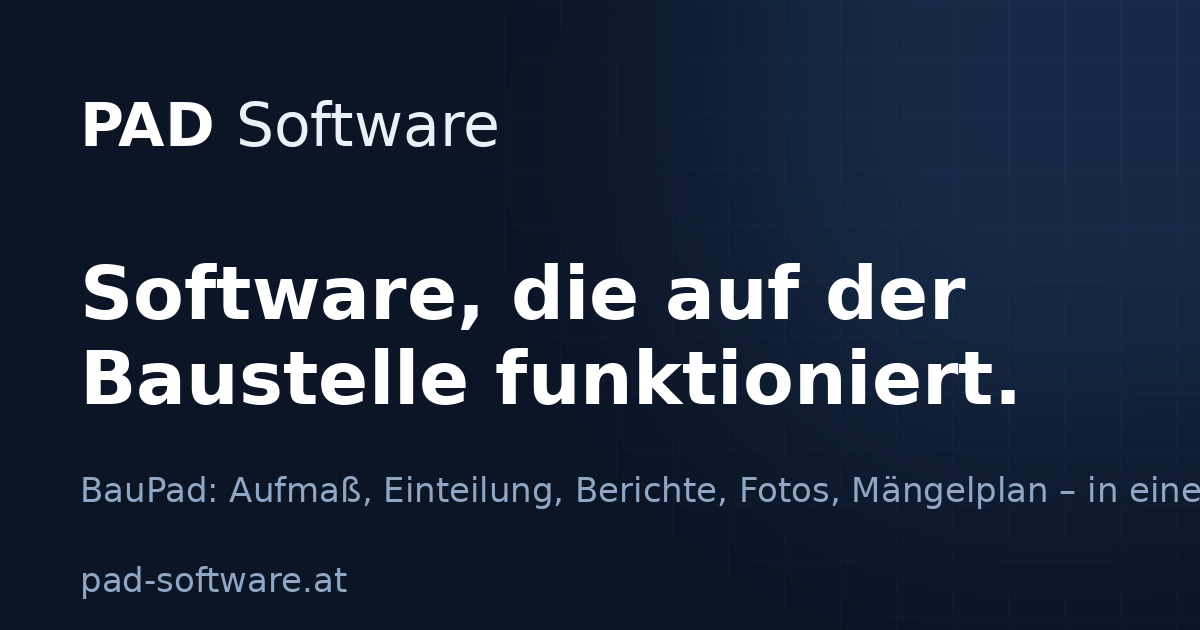
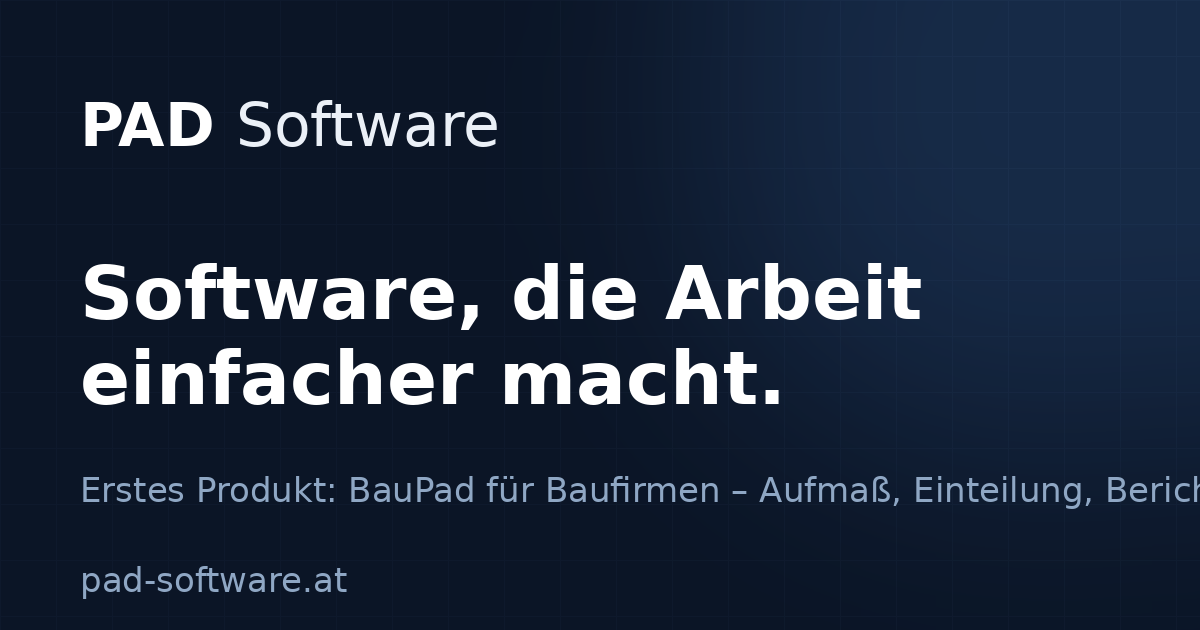
Motto der Dachmarke: „Software, die Arbeit einfacher macht“ (DE/EN), Unternehmenstexte branchenoffen, Vorschaubild angepasst
Claude-Session: https://claude.ai/code/session_01CTfwLUZGYsocWLa9NHJ2PS

Changed region(s): [[0.0617, 0.5429, 0.8633, 0.6635], [0.0617, 0.754, 1.0, 0.8143], [0.555, 0.4222, 0.8017, 0.5127]]

diff --git a/src/site/i18n/de.ts b/src/site/i18n/de.ts
@@ -24,7 +24,7 @@ export const de = {
     cta: 'Kontakt aufnehmen',
   },
   footer: {
-    claim: 'Software für Baufirmen – entwickelt in Österreich.',
+    claim: 'Software, die Arbeit einfacher macht – entwickelt in Österreich.',
     products: 'Produkte',
     companyCol: 'Unternehmen',
     legal: 'Rechtliches',
@@ -49,20 +49,20 @@ export const de = {
     toTop: 'Nach oben',
   },
   home: {
-    title: 'PAD Software – Software für Baufirmen',
-    description: 'PAD Software entwickelt Software für Baufirmen. BauPad ist unser erstes Produkt: Aufmaß, Arbeitereinteilung, Berichte, Fotodokumentation und Mängelplan in einer App.',
+    title: 'PAD Software – Software, die Arbeit einfacher macht',
+    description: 'PAD Software entwickelt Software, die Arbeit einfacher macht. Erstes Produkt: BauPad für Baufirmen – Aufmaß, Arbeitereinteilung, Berichte, Fotodokumentation und Mängelplan in einer App.',
     hero: {
       eyebrow: 'PAD Software',
-      title: ['Software,', 'die auf der Baustelle', 'funktioniert.'],
-      lead: 'Wir entwickeln Software für Baufirmen – verständlich, schnell und auch ohne Internet. Unser erstes Produkt ist BauPad.',
+      title: ['Software,', 'die Arbeit', 'einfacher macht.'],
+      lead: 'Wir entwickeln Software, die Arbeitsabläufe vereinfacht – verständlich, schnell und auch ohne Internet. Unser erstes Produkt ist BauPad für Baufirmen.',
       primary: 'Mehr über BauPad erfahren',
       secondary: 'Kontakt aufnehmen',
       facts: ['Entwickelt in Österreich', 'Aus der Praxis für die Praxis', 'Ein Konto für alle Produkte'],
     },
     intro: {
       eyebrow: 'Das Unternehmen',
-      title: 'Wir bauen Werkzeuge, die auf der Baustelle bestehen.',
-      text: 'PAD Software ist ein junges Softwareunternehmen aus Österreich. Unsere Produkte entstehen dort, wo sie gebraucht werden: auf Baustellen, in Besprechungen mit Polieren, im Büro beim Abrechnen. Wir bauen keine Software für Präsentationen, sondern für den Arbeitstag.',
+      title: 'Wir bauen Werkzeuge, die im Arbeitsalltag bestehen.',
+      text: 'PAD Software ist ein junges Softwareunternehmen aus Österreich. Unsere Produkte entstehen dort, wo sie gebraucht werden: im Betrieb, auf der Baustelle, im Büro beim Abrechnen. Wir bauen keine Software für Präsentationen, sondern für den Arbeitstag – begonnen im Bau, offen für weitere Branchen.',
       points: [
         { title: 'Verständlich', text: 'Jede Funktion muss ohne Schulung bedienbar sein – am Handy mit Handschuhen genauso wie am PC.' },
         { title: 'Verlässlich', text: 'Unsere Software läuft auch ohne Empfang. Was erfasst wird, bleibt erhalten.' },
@@ -279,9 +279,9 @@ export const de = {
   },
   companyPage: {
     title: 'Unternehmen – PAD Software',
-    description: 'PAD Software ist ein Softwareunternehmen aus Österreich. Wir entwickeln Werkzeuge für Baufirmen, die auf der Baustelle funktionieren – verständlich, verlässlich, ehrlich.',
-    hero: { eyebrow: 'Unternehmen', title: ['Software aus der Praxis,', 'für die Praxis.'], lead: 'PAD Software ist ein junges Softwareunternehmen aus Österreich. Wir entwickeln Werkzeuge für Baufirmen – entstanden auf den Baustellen der Betoninstandsetzung.' },
-    what: { eyebrow: 'Was wir tun', title: 'Wir entwickeln Software für den Baualltag.', text: 'Unsere Produkte helfen Baufirmen, Arbeit zu erfassen, Mannschaften einzuteilen, Nachweise zu führen und abzurechnen – auf dem Handy auf der Baustelle und am PC im Büro. BauPad ist das erste Produkt; weitere sind in Planung.' },
+    description: 'PAD Software ist ein Softwareunternehmen aus Österreich. Wir entwickeln Software, die Arbeit einfacher macht – verständlich, verlässlich, ehrlich. Erstes Produkt: BauPad für Baufirmen.',
+    hero: { eyebrow: 'Unternehmen', title: ['Software aus der Praxis,', 'für die Praxis.'], lead: 'PAD Software ist ein junges Softwareunternehmen aus Österreich. Wir entwickeln Software, die Arbeit einfacher macht – begonnen auf den Baustellen der Betoninstandsetzung, offen für weitere Branchen.' },
+    what: { eyebrow: 'Was wir tun', title: 'Wir entwickeln Software, die Arbeit einfacher macht.', text: 'Unsere Produkte helfen Betrieben, Arbeit zu erfassen, Teams einzuteilen, Nachweise zu führen und abzurechnen – am Handy vor Ort und am PC im Büro. BauPad für Baufirmen ist das erste Produkt; weitere Branchen und Produkte sind in Planung.' },
     philosophy: {
       eyebrow: 'Philosophie',
       title: 'Drei Grundsätze.',

diff --git a/src/site/i18n/en.ts b/src/site/i18n/en.ts
@@ -22,7 +22,7 @@ export const en: Dict = {
     cta: 'Get in touch',
   },
   footer: {
-    claim: 'Software for construction companies – developed in Austria.',
+    claim: 'Software that makes work easier – developed in Austria.',
     products: 'Products',
     companyCol: 'Company',
     legal: 'Legal',
@@ -47,20 +47,20 @@ export const en: Dict = {
     toTop: 'Back to top',
   },
   home: {
-    title: 'PAD Software – Software for construction companies',
-    description: 'PAD Software builds software for construction companies. BauPad is our first product: measurement, crew scheduling, reports, photo documentation and defect plans in one app.',
+    title: 'PAD Software – Software that makes work easier',
+    description: 'PAD Software builds software that makes work easier. First product: BauPad for construction companies – measurement, crew scheduling, reports, photo documentation and defect plans in one app.',
     hero: {
       eyebrow: 'PAD Software',
-      title: ['Software', 'that works', 'on site.'],
-      lead: 'We build software for construction companies – clear, fast and working without an internet connection. Our first product is BauPad.',
+      title: ['Software', 'that makes', 'work easier.'],
+      lead: 'We build software that simplifies everyday work – clear, fast and working without an internet connection. Our first product is BauPad for construction companies.',
       primary: 'Learn more about BauPad',
       secondary: 'Get in touch',
       facts: ['Developed in Austria', 'Built on real job sites', 'One account for all products'],
     },
     intro: {
       eyebrow: 'The company',
-      title: 'We build tools that hold up on the job site.',
-      text: 'PAD Software is a young software company from Austria. Our products are created where they are needed: on construction sites, in conversations with foremen, in the office during billing. We do not build software for presentations – we build it for the working day.',
+      title: 'We build tools that hold up in everyday work.',
+      text: 'PAD Software is a young software company from Austria. Our products are created where they are needed: in the company, on the construction site, in the office during billing. We do not build software for presentations – we build it for the working day, starting in construction and open to further industries.',
       points: [
         { title: 'Clear', text: 'Every function must work without training – on a phone with gloves on as well as on a PC.' },
         { title: 'Reliable', text: 'Our software keeps working without a signal. What you record stays recorded.' },
@@ -277,9 +277,9 @@ export const en: Dict = {
   },
   companyPage: {
     title: 'Company – PAD Software',
-    description: 'PAD Software is a software company from Austria. We build tools for construction companies that work on site – clear, reliable, honest.',
-    hero: { eyebrow: 'Company', title: ['Software from practice,', 'for practice.'], lead: 'PAD Software is a young software company from Austria. We build tools for construction companies – created on the job sites of concrete repair.' },
-    what: { eyebrow: 'What we do', title: 'We build software for the construction day.', text: 'Our products help construction companies record work, schedule crews, keep proof and bill – on the phone on site and on the PC in the office. BauPad is the first product; more are being planned.' },
+    description: 'PAD Software is a software company from Austria. We build software that makes work easier – clear, reliable, honest. First product: BauPad for construction companies.',
+    hero: { eyebrow: 'Company', title: ['Software from practice,', 'for practice.'], lead: 'PAD Software is a young software company from Austria. We build software that makes work easier – started on the job sites of concrete repair, open to further industries.' },
+    what: { eyebrow: 'What we do', title: 'We build software that makes work easier.', text: 'Our products help companies record work, schedule teams, keep proof and bill – on the phone on site and on the PC in the office. BauPad for construction companies is the first product; further industries and products are being planned.' },
     philosophy: {
       eyebrow: 'Philosophy',
       title: 'Three principles.',

diff --git a/tests/e2e/projects.spec.ts b/tests/e2e/projects.spec.ts
@@ -13,11 +13,11 @@ test.describe('ohne Anmeldung', () => {
 
 test('Website: Startseite, Produkte, BauPad, Unternehmen, Zukunft, Kontaktformular, Sprache, Rechtliches', async ({ page }) => {
   await page.goto('./');
-  await expect(page).toHaveTitle('PAD Software – Software für Baufirmen');
+  await expect(page).toHaveTitle('PAD Software – Software, die Arbeit einfacher macht');
   const nav = page.getByTestId('site-nav');
   await expect(nav).toBeVisible();
   const h1 = page.getByRole('heading', { level: 1 });
-  await expect(h1).toContainText('funktioniert');
+  await expect(h1).toContainText('einfacher macht');
   await expect(page.locator('html')).toHaveAttribute('lang', 'de');
   // Dachmarke zuerst: Unternehmen, dann Produktwelt (1 verfügbar, 3 geplant), dann BauPad
   await expect(page.locator('.ps-product-card.is-available')).toHaveCount(1);
@@ -103,7 +103,7 @@ test('Website: Startseite, Produkte, BauPad, Unternehmen, Zukunft, Kontaktformul
 
   // Wortmarke führt immer zur Startseite
   await nav.getByRole('link', { name: 'PAD Software' }).first().click();
-  await expect(h1).toContainText('funktioniert');
+  await expect(h1).toContainText('einfacher macht');
 
   // „Anmelden“: Anmeldeseite mit Supabase – der Dienst ist aus der Testumgebung nicht erreichbar,
   // deshalb werden seine Antworten hier nachgestellt (Anbieter-Weiterleitung, falsches Passwort, Registrierung)

diff --git a/index.html b/index.html
@@ -4,7 +4,7 @@
     <meta charset="UTF-8" />
     <meta name="viewport" content="width=device-width, initial-scale=1, viewport-fit=cover" />
     <meta name="theme-color" content="#1f4e79" />
-    <meta name="description" content="PAD Software entwickelt Werkzeuge für Baufirmen. BauPad: Aufmaß & Abrechnung, Arbeitereinteilung, Berichte, Fotodokumentation und Mängelplan in einer App – am Handy, Tablet und PC, auch offline." />
+    <meta name="description" content="PAD Software entwickelt Software, die Arbeit einfacher macht. Erstes Produkt: BauPad für Baufirmen – Aufmaß, Arbeitereinteilung, Berichte, Fotodokumentation und Mängelplan in einer App." />
     <meta name="apple-mobile-web-app-capable" content="yes" />
     <meta name="mobile-web-app-capable" content="yes" />
     <meta name="apple-mobile-web-app-status-bar-style" content="default" />

diff --git a/tests/e2e/mobile.spec.ts b/tests/e2e/mobile.spec.ts
@@ -278,7 +278,7 @@ test('Website und Planliste auf Smartphone/Tablet: Menü, keine Überbreite, Akt
   await page.goto('./#/impressum');
   await signOutInPage(page);
   await page.goto('./');
-  await expect(page.getByRole('heading', { level: 1 })).toContainText('funktioniert');
+  await expect(page.getByRole('heading', { level: 1 })).toContainText('einfacher macht');
   await noHorizontalScroll(page);
   const nav = page.getByTestId('site-nav');
   const menuBtn = nav.getByRole('button', { name: 'Menü öffnen' });
